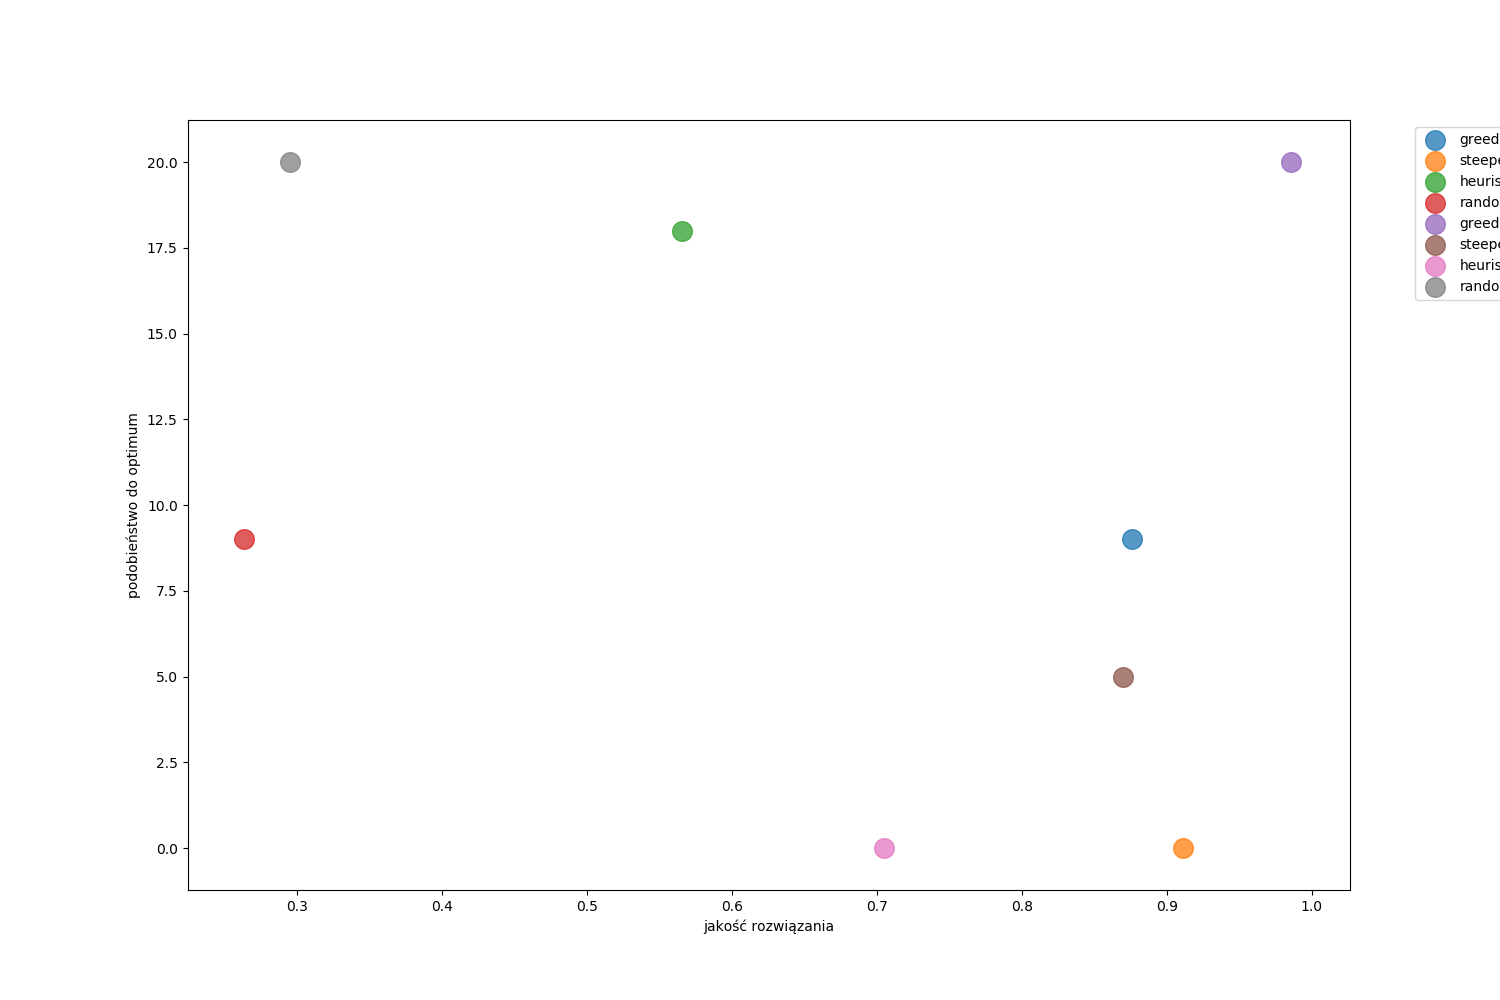
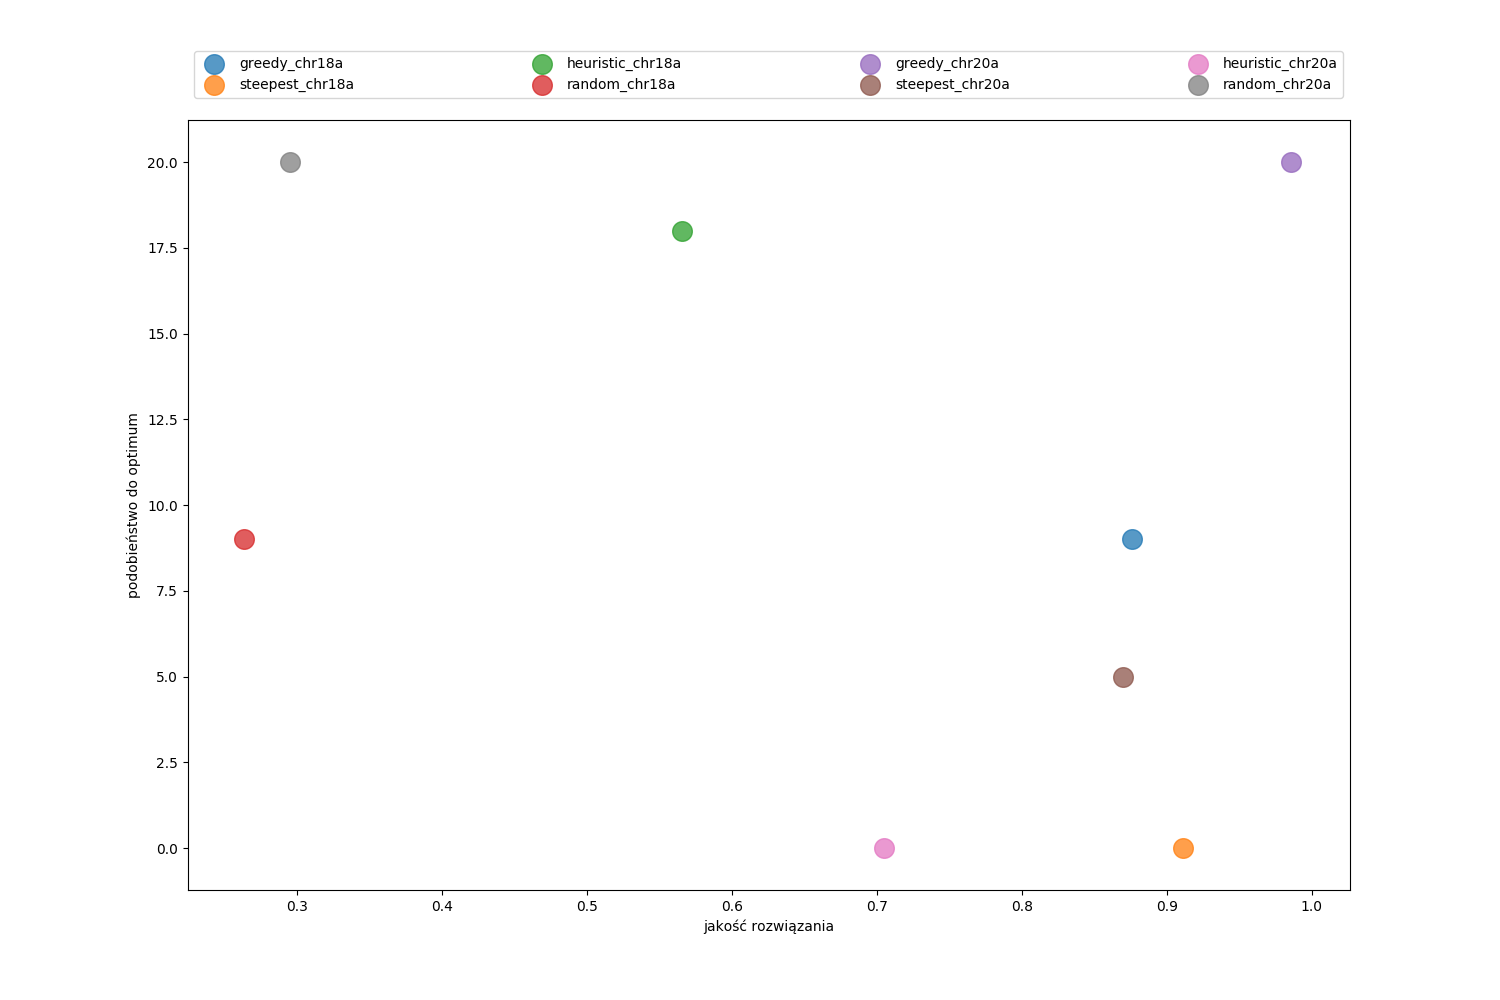
Update Jacek's charts

diff --git a/QapPlots/quality_vs_similarity.py b/QapPlots/quality_vs_similarity.py
@@ -2,42 +2,48 @@ import matplotlib.pyplot as plt
 import numpy as np
 import re
 
+
 def similarity_percentage(solution, optimal):
     count = 0
     for s_el, o_el in zip(solution, optimal):
-        if s_el == o_el: count += 1
+        if s_el == o_el:
+            count += 1
     if count == 0:
         return 0
     else:
         return len(solution) // count
 
-def get_optimum(file):
-  with open(file, 'r') as fh:
-    data = fh.read()
 
-  return parse_optimal_solution(data)
+def get_optimum(file):
+    with open(file, 'r') as fh:
+        data = fh.read()
+
+    return parse_optimal_solution(data)
+
 
 def get_results(file):
-  with open(file, 'r') as fh:
-    data = fh.read()
+    with open(file, 'r') as fh:
+        data = fh.read()
 
-  data = re.sub(' +', ' ', data).split('\n')
+    data = re.sub(' +', ' ', data).split('\n')
 
-  optimal_result = int(data[0].split(' ')[1])
-  optimal_perm = data[1].split(' ')
+    optimal_result = int(data[0].split(' ')[1])
+    optimal_perm = data[1].split(' ')
 
-  return optimal_result, optimal_perm
+    return optimal_result, optimal_perm
+
 
 def parse_optimal_solution(data):
-  data = re.sub(' +', ' ', data).split('\n')
+    data = re.sub(' +', ' ', data).split('\n')
 
-  optimal_result = int(data[0].split(' ')[2])
-  optimal_perm = data[1].split(' ')[1:-1]
+    optimal_result = int(data[0].split(' ')[2])
+    optimal_perm = data[1].split(' ')[1:-1]
 
-  return optimal_result, optimal_perm
+    return optimal_result, optimal_perm
+
 
 def quality(solution, optimal):
-  return 1 - ((solution - optimal) / solution)
+    return 1 - ((solution - optimal) / solution)
 
 
 algs = {
@@ -60,32 +66,35 @@ algs = {
     }
 }
 
-all_problems = ['chr18a', 'chr20a', 'esc32g', 'lipa50a', 'tai12a', 'tai12b', 'tai15a', 'tai35b']
+all_problems = ['chr18a', 'chr20a', 'esc32g',
+                'lipa50a', 'tai12a', 'tai12b', 'tai15a', 'tai35b']
 selected_problems = ['chr18a', 'chr20a']
 size = 300
-plt.figure(figsize=(15,10))
+plt.figure(figsize=(15, 10))
 
 x = np.arange(1, 301, 1)
 
 for problem in selected_problems:
-  optimal_score, optimal_permutation = get_optimum('../QapData/' + problem + '.sln')
+    optimal_score, optimal_permutation = get_optimum(
+        '../QapData/' + problem + '.sln')
 
-  alg_results = {}
-  for alg in algs.keys():
-      alg_results[alg] = {}
-      alg_score, alg_permutation = get_results('../QapSolver/results/' + problem + '_' + alg + '_' + str(size) + '.sln')
-      alg_results[alg]['quality'] = quality(alg_score, optimal_score)
-      alg_results[alg]['similarity'] = similarity_percentage(alg_permutation, optimal_permutation)
+    alg_results = {}
+    for alg in algs.keys():
+        alg_results[alg] = {}
+        alg_score, alg_permutation = get_results(
+            '../QapSolver/results/' + problem + '_' + alg + '_' + str(size) + '.sln')
+        alg_results[alg]['quality'] = quality(alg_score, optimal_score)
+        alg_results[alg]['similarity'] = similarity_percentage(
+            alg_permutation, optimal_permutation)
 
-  for alg in algs.keys():
-      plt.scatter(alg_results[alg]['quality'], alg_results[alg]['similarity'],
-                  label=algs[alg]['label'] + "_" + problem, marker=algs[alg]['marker'],
-                  alpha=0.75,
-                  s=200 )
+    for alg in algs.keys():
+        plt.scatter(alg_results[alg]['quality'], alg_results[alg]['similarity'],
+                    label=algs[alg]['label'] + "_" + problem, marker=algs[alg]['marker'],
+                    alpha=0.75,
+                    s=200)
 
 
 plt.xlabel('jakość rozwiązania')
 plt.ylabel('podobieństwo do optimum')
-plt.legend(bbox_to_anchor=(1.05, 1))
+plt.legend(bbox_to_anchor=(0., 1.02, 1., .102), mode='expand', ncol=4, loc=3)
 plt.savefig('quality_vs_similarity.png')
-

diff --git a/QapPlots/initial_vs_final.py b/QapPlots/initial_vs_final.py
@@ -2,37 +2,42 @@ import matplotlib.pyplot as plt
 import numpy as np
 import re
 
-def get_optimum(file):
-  with open(file, 'r') as fh:
-    data = fh.read()
 
-  return parse_optimal_solution(data)[0]
+def get_optimum(file):
+    with open(file, 'r') as fh:
+        data = fh.read()
+
+    return parse_optimal_solution(data)[0]
+
 
 def parse_optimal_solution(data):
-  data = re.sub(' +', ' ', data).split('\n')
+    data = re.sub(' +', ' ', data).split('\n')
 
-  optimal_result = int(data[0].split(' ')[2])
-  optimal_perm = data[1].split(' ')[1:-1]
+    optimal_result = int(data[0].split(' ')[2])
+    optimal_perm = data[1].split(' ')[1:-1]
 
-  return optimal_result, optimal_perm
+    return optimal_result, optimal_perm
+
 
 def quality(solution, optimal):
-  return 1 - ((solution - optimal) / solution)
+    return 1 - ((solution - optimal) / solution)
+
 
 def get_results(file):
-  with open(file, 'r') as fh:
-    data = fh.read()
+    with open(file, 'r') as fh:
+        data = fh.read()
 
-  x = []
-  y = []
-  for i, line in enumerate(data.split('\n')):
-    if i==0 or i == (size+1): continue
+    x = []
+    y = []
+    for i, line in enumerate(data.split('\n')):
+        if i == 0 or i == (size+1):
+            continue
 
-    parsed = line.split(',')
-    x.append(int(parsed[1]))
-    y.append(int(parsed[2]))
+        parsed = line.split(',')
+        x.append(int(parsed[1]))
+        y.append(int(parsed[2]))
 
-  return x, y
+    return x, y
 
 
 algs = {
@@ -46,29 +51,32 @@ algs = {
     }
 }
 
-all_problems = ['chr18a', 'chr20a', 'esc32g', 'lipa50a', 'tai12a', 'tai12b', 'tai15a', 'tai35b']
+all_problems = ['chr18a', 'chr20a', 'esc32g',
+                'lipa50a', 'tai12a', 'tai12b', 'tai15a', 'tai35b']
 selected_problems = ['chr18a', 'esc32g', 'lipa50a', 'tai12a', 'tai12b']
 size = 200
-plt.figure(figsize=(15,10))
+plt.figure(figsize=(15, 10))
 
 for problem in selected_problems:
-  optimal_score = get_optimum('../QapData/' + problem + '.sln')
+    optimal_score = get_optimum('../QapData/' + problem + '.sln')
 
-  alg_results = {}
-  for alg in algs.keys():
-      alg_results[alg] = {}
-      alg_data_x, alg_data_y = get_results('../QapSolver/results/' + problem + '_' + alg + '_' + str(size) + '.csv')
+    alg_results = {}
+    for alg in algs.keys():
+        alg_results[alg] = {}
+        alg_data_x, alg_data_y = get_results(
+            '../QapSolver/results/' + problem + '_' + alg + '_' + str(size) + '.csv')
 
-      alg_results[alg]['initial'] = list(map(lambda x: quality(x, optimal_score), alg_data_x))
-      alg_results[alg]['final'] = list(map(lambda y: quality(y, optimal_score), alg_data_y))
+        alg_results[alg]['initial'] = list(
+            map(lambda x: quality(x, optimal_score), alg_data_x))
+        alg_results[alg]['final'] = list(
+            map(lambda y: quality(y, optimal_score), alg_data_y))
 
-  for alg in algs.keys():
-      plt.scatter(alg_results[alg]['initial'], alg_results[alg]['final'],
-                  label=algs[alg]['label'] + "_" + problem, marker=algs[alg]['marker'],
-                  alpha=0.75)
+    for alg in algs.keys():
+        plt.scatter(alg_results[alg]['initial'], alg_results[alg]['final'],
+                    label=algs[alg]['label'] + "_" + problem, marker=algs[alg]['marker'],
+                    alpha=0.75)
 
 plt.xlabel('Jakość rozwiązania początkowego')
 plt.ylabel('Jakość rozwiązania końcowego')
 plt.legend()
 plt.savefig('initial_vs_final.png')
-
